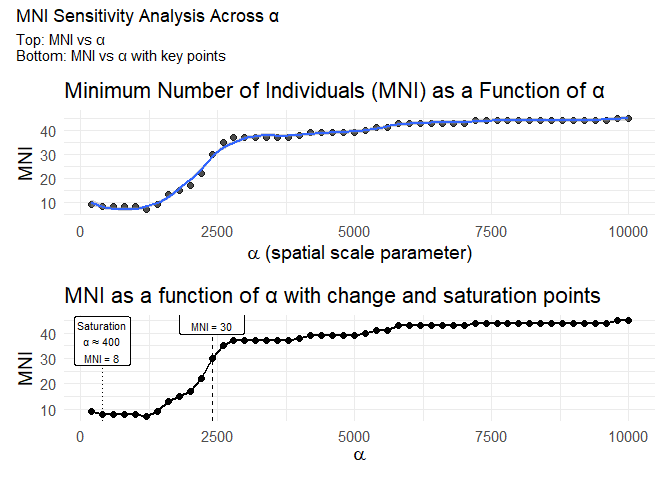
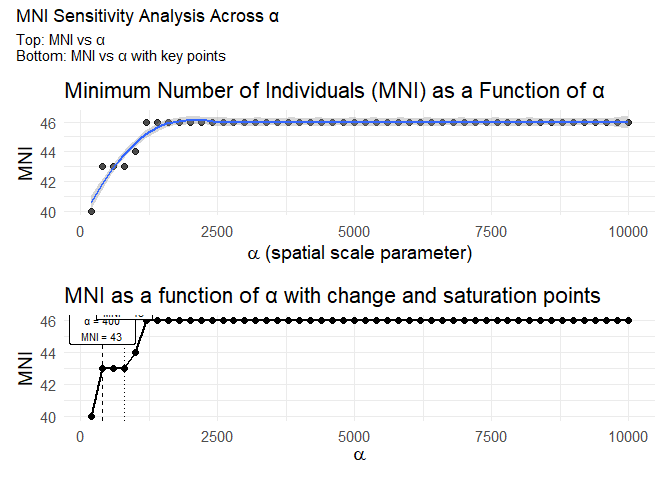
hh

diff --git a/README.md b/README.md
@@ -62,7 +62,7 @@ Below we show a minimal example workflow using some of these functions.
 In this example we assume you have a camera-trap dataset like:
 
 ``` r
-datab <- read.csv("G:/Mi unidad/R/Fototrampeo/sipecam_final.csv", header = TRUE)
+datab <- read.csv("sipecam_final.csv", header = TRUE)
 ```
 
 ``` r
@@ -412,10 +412,10 @@ burnin = 500
 
 out$bf.table
 #>    Prior  Posterior
-#> D   0.25 0.02115744
+#> D   0.25 0.02447072
 #> N   0.25 0.00000000
 #> CR  0.25 0.00000000
-#> C   0.25 0.97884256
+#> C   0.25 0.97552928
 ```
 
 Plot our parameter chains:
@@ -518,67 +518,39 @@ long = "Longitud",
 alpha = 300, # spatial scale (m)
 dt = 1, # time step (hours)
 alpha_sensitivity = seq(200, 10000, 200), # optional sensitivity analysis
-min_prob = 0.1
+min_prob = 0.5
 )
 ```
 
 ``` r
 mni_res$MNI
 #>                  species MNI alpha dt min_prob
-#> 1 Odocoileus virginianus   8   300  1      0.1
+#> 1 Odocoileus virginianus  41   300  1      0.5
 ```
 
 ``` r
 head(mni_res$data_with_ids)
-#>        ID          Carpeta Integridad Station Latitud  Longitud Comunidad
-#> 901   764 1_81_0_1503_9381      media 1503_01 19.4079 -102.4291 Tancitaro
-#> 721  1964 1_81_1_1500_9862       alta 1500_05 19.4493 -102.2333       NSJ
-#> 702   490 1_81_1_1500_9617       alta 1500_04 19.4470 -102.2357       NSJ
-#> 902   776 1_81_0_1503_9381      media 1503_01 19.4079 -102.4291 Tancitaro
-#> 903   784 1_81_0_1503_9381      media 1503_01 19.4079 -102.4291 Tancitaro
-#> 1018  173 1_81_0_1503_0058      media 1503_05 19.4070 -102.4233 Tancitaro
-#>      Muestreo                Species ncomun    grupo carnivoro DateTimeOriginal
-#> 901     Secas Odocoileus virginianus Venado Mamifero           14/12/2021 18:46
-#> 721     Secas Odocoileus virginianus Venado Mamifero           20/12/2021 18:25
-#> 702     Secas Odocoileus virginianus Venado Mamifero            24/12/2021 9:36
-#> 902     Secas Odocoileus virginianus Venado Mamifero            27/12/2021 9:44
-#> 903     Secas Odocoileus virginianus Venado Mamifero           27/12/2021 19:33
-#> 1018    Secas Odocoileus virginianus Venado Mamifero             7/01/2022 9:06
-#>            Date                Time delta.time.secs delta.time.mins
-#> 901  14/12/2021 2021-12-14 18:46:34               0             0.0
-#> 721  20/12/2021 2021-12-20 18:25:32               0             0.0
-#> 702  24/12/2021 2021-12-24 09:36:01               0             0.0
-#> 902  27/12/2021 2021-12-27 09:44:29          122046          2034.1
-#> 903  27/12/2021 2021-12-27 19:33:57              16             0.3
-#> 1018 07/01/2022 2022-01-07 09:06:20               0             0.0
-#>      delta.time.hours delta.time.days Individuos
-#> 901               0.0             0.0         NA
-#> 721               0.0             0.0         NA
-#> 702               0.0             0.0         NA
-#> 902              33.9             1.4         NA
-#> 903               0.0             0.0         NA
-#> 1018              0.0             0.0         NA
-#>                                                         Directory
-#> 901  C:/Users/45036829/Documents/SIPECAM/renamed/1_81_0_1503_9381
-#> 721  C:/Users/45036829/Documents/SIPECAM/renamed/1_81_1_1500_9862
-#> 702  C:/Users/45036829/Documents/SIPECAM/renamed/1_81_1_1500_9617
-#> 902  C:/Users/45036829/Documents/SIPECAM/renamed/1_81_0_1503_9381
-#> 903  C:/Users/45036829/Documents/SIPECAM/renamed/1_81_0_1503_9381
-#> 1018 C:/Users/45036829/Documents/SIPECAM/renamed/1_81_0_1503_0058
-#>                                           FileName indiv_id prob_last_ind
-#> 901  1_81_0_1503_9381__2021-12-14__18-46-34(1).JPG        1  1.000000e+00
-#> 721  1_81_1_1500_9862__2021-12-20__18-25-32(1).JPG        2  4.297053e-28
-#> 702  1_81_1_1500_9617__2021-12-24__09-36-01(1).JPG        2  2.195745e-01
-#> 902  1_81_0_1503_9381__2021-12-27__09-44-29(1).JPG        1  5.000000e-01
-#> 903  1_81_0_1503_9381__2021-12-27__19-33-57(4).JPG        1  5.517182e-01
-#> 1018 1_81_0_1503_0058__2022-01-07__09-06-20(1).JPG        1  5.000000e-01
-#>      prob_new_ind
-#> 901     1.0000000
-#> 721     1.0000000
-#> 702     0.7804255
-#> 902     0.5000000
-#> 903     0.4482818
-#> 1018    0.5000000
+#>        ID          Carpeta Integridad Station Latitud  Longitud
+#> 901   764 1_81_0_1503_9381      media 1503_01 19.4079 -102.4291
+#> 721  1964 1_81_1_1500_9862       alta 1500_05 19.4493 -102.2333
+#> 702   490 1_81_1_1500_9617       alta 1500_04 19.4470 -102.2357
+#> 902   776 1_81_0_1503_9381      media 1503_01 19.4079 -102.4291
+#> 903   784 1_81_0_1503_9381      media 1503_01 19.4079 -102.4291
+#> 1018  173 1_81_0_1503_0058      media 1503_05 19.4070 -102.4233
+#>                     Species       Date                Time Individuos indiv_id
+#> 901  Odocoileus virginianus 14/12/2021 2021-12-14 18:46:34          1        1
+#> 721  Odocoileus virginianus 20/12/2021 2021-12-20 18:25:32          1        2
+#> 702  Odocoileus virginianus 24/12/2021 2021-12-24 09:36:01          1        3
+#> 902  Odocoileus virginianus 27/12/2021 2021-12-27 09:44:29          1        4
+#> 903  Odocoileus virginianus 27/12/2021 2021-12-27 19:33:57          1        4
+#> 1018 Odocoileus virginianus 07/01/2022 2022-01-07 09:06:20          1        5
+#>      prob_last_ind prob_new_ind
+#> 901       1.000000     1.000000
+#> 721       0.000000     1.000000
+#> 702       0.219574     0.780426
+#> 902       0.500000     0.500000
+#> 903       0.551718     0.448282
+#> 1018      0.500000     0.500000
 ```
 
 If alpha_sensitivity is provided, the function can additionally plot how
@@ -588,7 +560,7 @@ the MNI varies with the spatial scale parameter.
 mni_res$`Plot MNI vs α`
 ```
 
-<img src="man/figures/README-unnamed-chunk-24-1.png" width="60%" />
+<img src="man/figures/README-unnamed-chunk-24-1.png" width="60%" height="120%" />
 
 ### **Dependencies**
 
